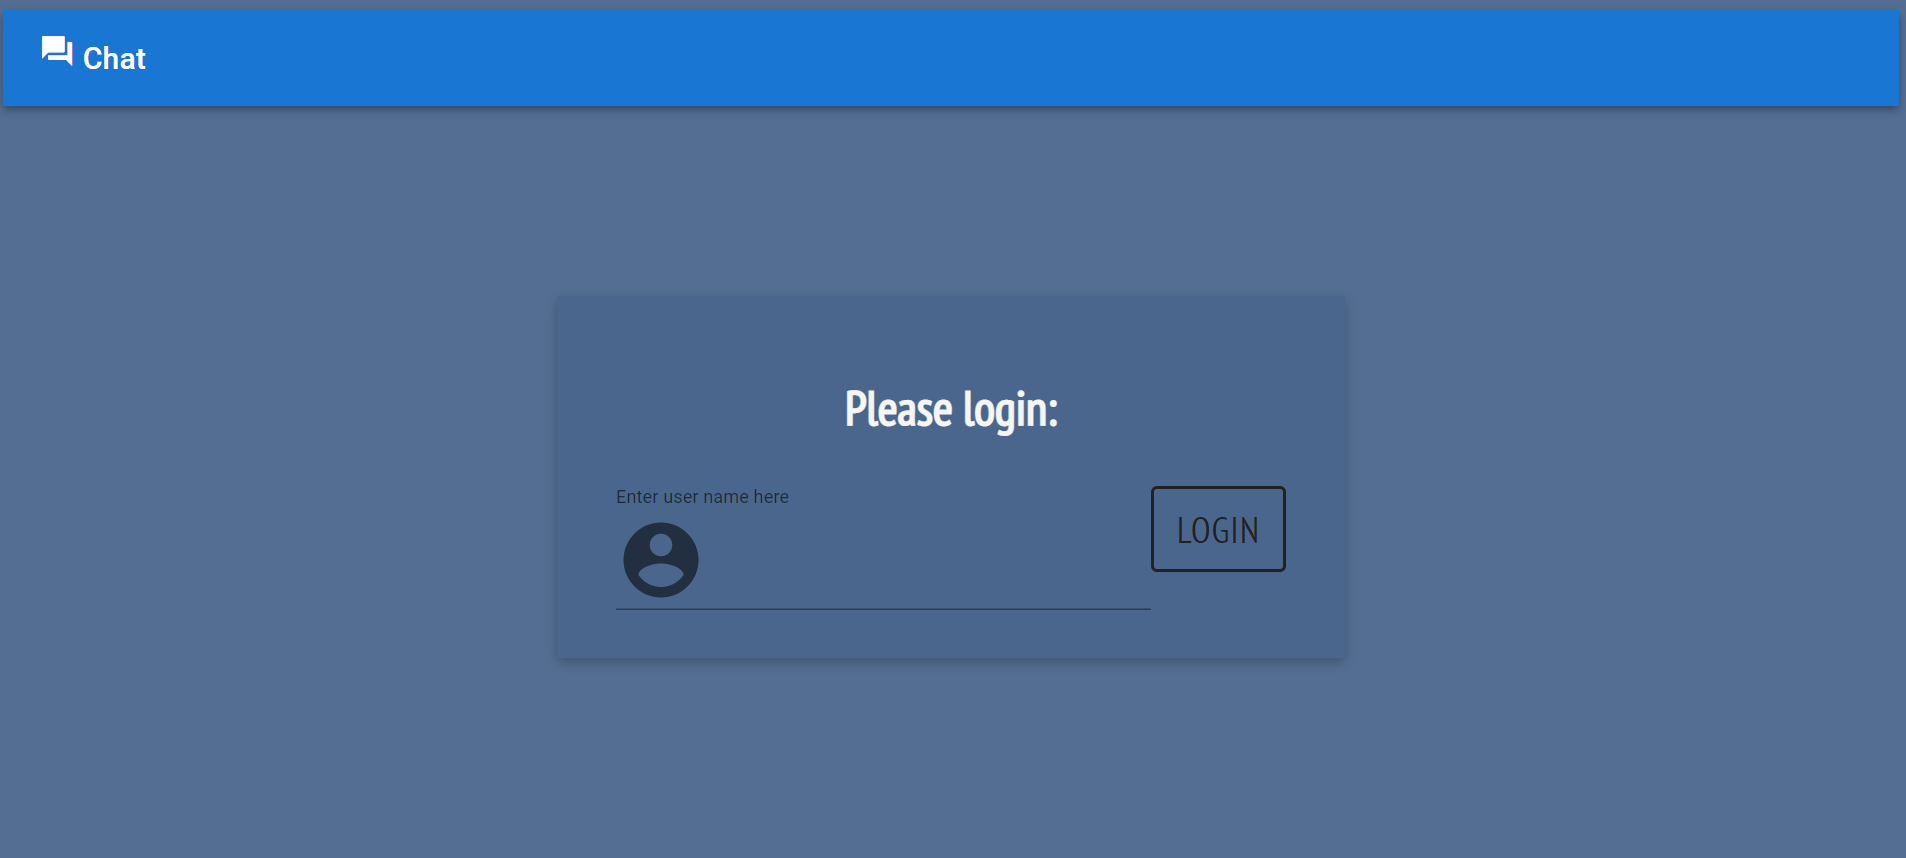
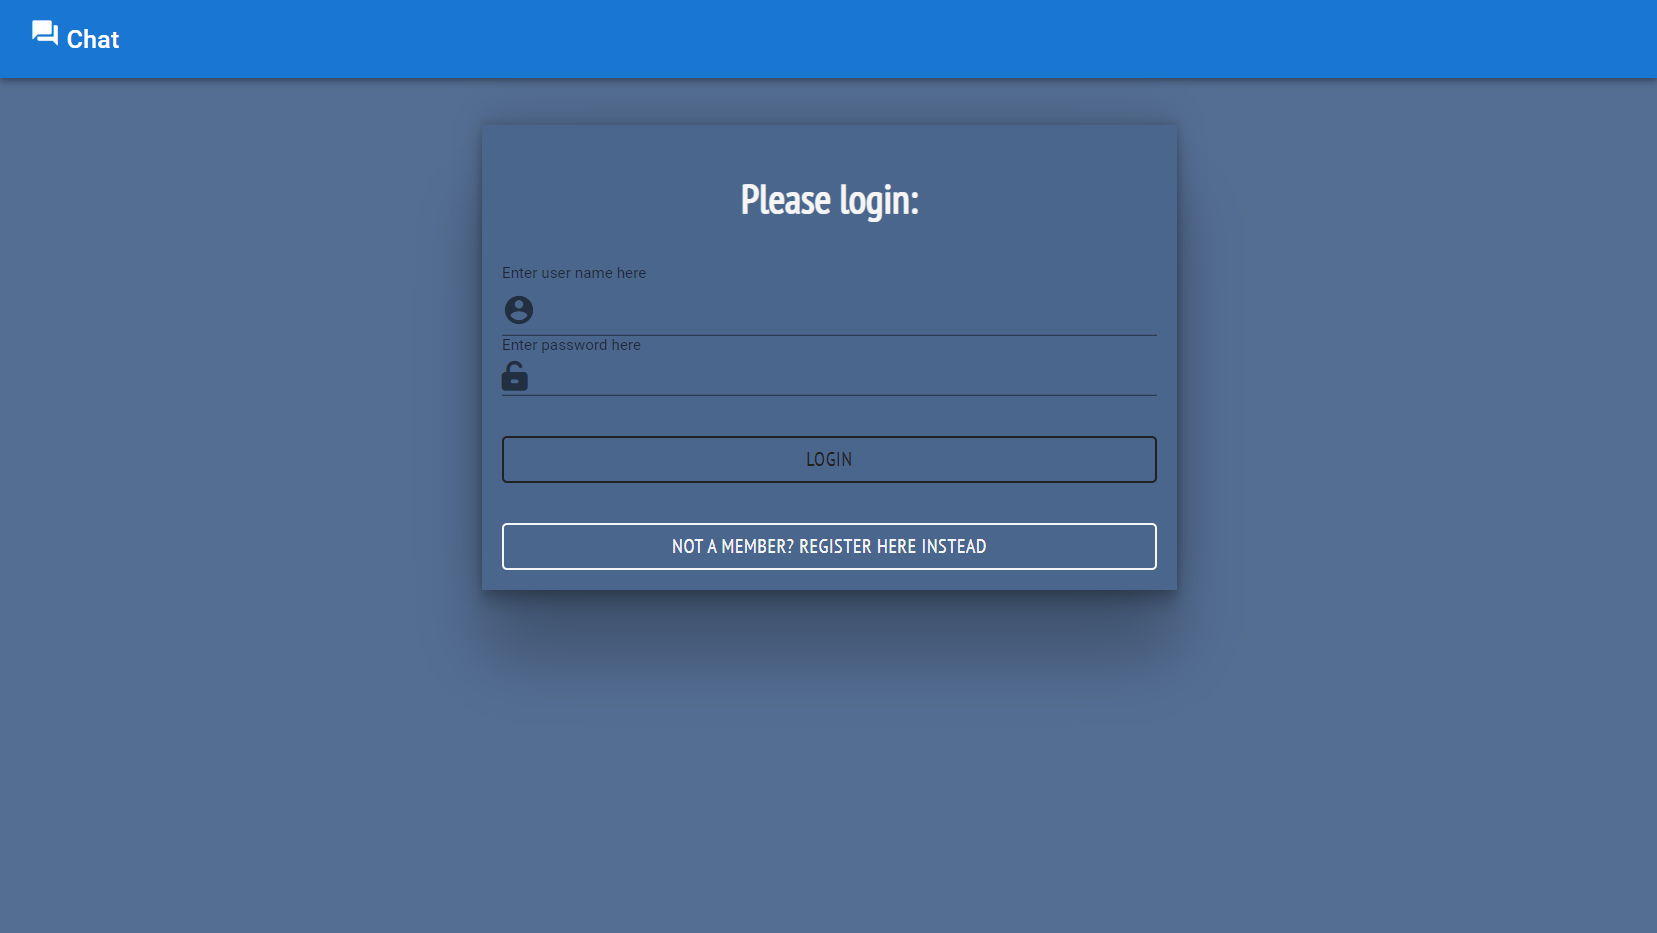
📃 Update readme to this point

diff --git a/README.md b/README.md
@@ -6,11 +6,12 @@
 
 ### Technologies in use - 👩💻👨💻
 
-- **[React](https://reactjs.org/)**
-- **[TypeScript](https://www.typescriptlang.org/)**
-- **[React Router DOM](https://www.npmjs.com/package/react-router-dom)**
-- **[Redux](https://redux.js.org/)**
-- **[Docker](https://www.docker.com/)**
+- **[React](https://reactjs.org/) - For the frontend**
+- **[TypeScript](https://www.typescriptlang.org/) - As a programming language**
+- **[React Router DOM](https://www.npmjs.com/package/react-router-dom) - To create single page app**
+- **[Redux](https://redux.js.org/) - for state management**
+- **[Docker](https://www.docker.com/) - For global use**
+- **[Socket.io](https://socket.io/) - For live connection**
 
 #### Packages 📦
 
@@ -21,6 +22,7 @@
 - **[Socket.io-client](https://socket.io/docs/v4/client-api/) - For client server connection**
 - **[Moment](https://momentjs.com/) - For nice dates**
 - **[mui](https://mui.com/) - For design**
+- **[font awesome](https://fontawesome.com/icons/user?s=solid) - For icons**
 
 ##### Back-end
 
@@ -28,6 +30,8 @@
 - **[Express](https://www.npmjs.com/package/express)**
 - **[Socket.io](https://socket.io/) - For client server connection**
 - **[Cors](https://www.npmjs.com/package/cors)**
+- **[JWT](https://jwt.io/) - To generate tokens**
+- **[Bcrypt](https://www.npmjs.com/package/bcrypt) - To encrypt passwords**
 
 ---
 
@@ -35,7 +39,11 @@
 
 ## Public use -
 
-#### Link to docker hub- ✨[Dockerhub-ramab2108/socket-chat](https://hub.docker.com/repository/docker/ramab2108/socket-chat)✨
+<!-- [Dockerhub-ramab2108/socket-chat](https://hub.docker.com/repository/docker/ramab2108/socket-chat) -->
+
+#### Link to docker hub- ✨Not yet✨
+
+#### Link to heroku- ✨Not yet✨
 
 ## Local use -
 
@@ -57,23 +65,67 @@
 
 ### Features - 💫
 
-- **Login with a unique username** 👤
-- **The online users view is updated live** 👥
+- **Login and register with a unique username and password** 👤
+- **The online users view is updated live - online or offline indicator** 🔴🟢👥
+- **User joined and left the chat group messages**🚪
+- **Getting all your messages history**📅
 - **Private messages to the user by clicking on the user** 🔏
 - **Chat scrolls down automatically** 🔽
 - **Indication for the user typing live** 💬
+- **Showing the selected conversation messages**👥
+- **Unread messages notifications**🔴1⃣
 - **Indication that a user is logging in or out of the chat** 👤❌✔
 - **Navbar with the option to disconnect from the chat** 🚪
+- **Sending messages also to disconnected users**⛔
 - **Nice design!** 💅
+
+---
+
+## Future Plans 📅👩🚀
+
+#### Front:
+
+- **Search - Search messages and users 🔎**
+- **Adding custom group chats 👥**
+- **Using the tokens to auth when sending messages** 🚫
+- **Go to last unread message page position when entering to conversation** ↕
+- **Mobile design** 📱
+- **Sending the typing signal just to the current room** 💬
+
+#### Back:
+
+- **Adding custom group chats 👥**
+- **Save data in MongoDB**
+- **Better error handling**
+
+#### General:
+
+- **Cleaning logs and code in general 🧹🧼**
+- **Tests - front and back 💯**
+- **Upload docker image to docker-hub 🐳**
+- **Deployment to heroku 🌎**
+- **Github workflows 🐱💻**
 
 ---
 
 ## Screenshots 📸 -
 
+### Login and register 🔐
+
 ### <img src="./README-PICS/login.png"/>
 
-### <img src="./README-PICS/my-app.png"/>
+### <img src="./README-PICS/register.png"/>
+
+### Group chat 👩🦰🧑👨🦱
+
+### <img src="./README-PICS/group-chat.png"/>
+
+### Typing in a private room 🤫
 
 ### <img src="./README-PICS/typing.png"/>
+
+### Offline users and notification sign 🔴
+
+### <img src="./README-PICS/offline-user.png"/>
 
 ---
